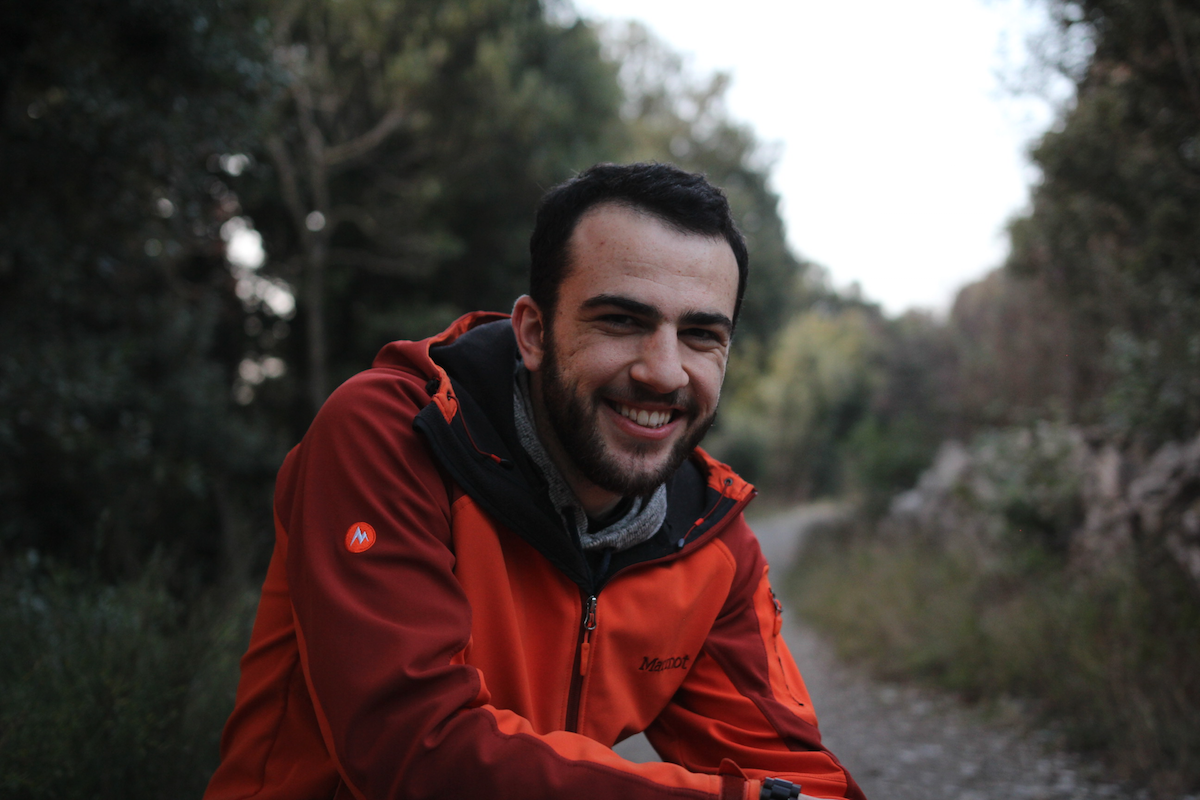
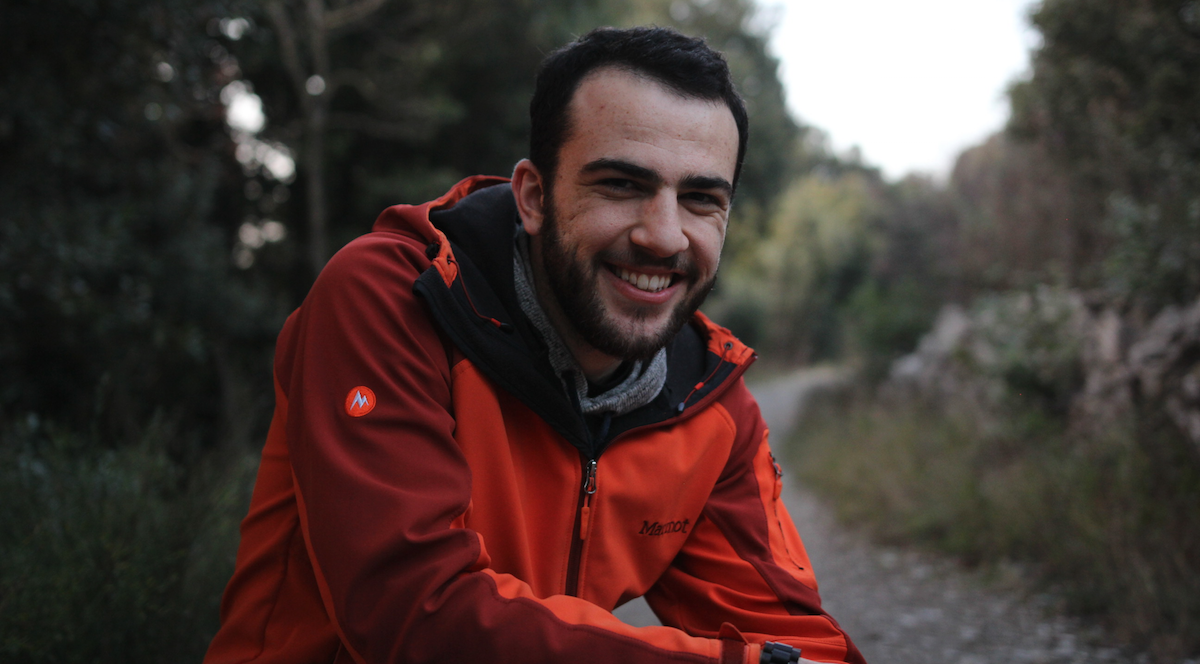
Update copy, fix compression, switch to grid

diff --git a/src/css/andrew.less b/src/css/andrew.less
@@ -39,42 +39,106 @@ body {
   color: #FFF;
 }
 
-.content {
-  max-width: 968px;
-  margin: 0 auto;
-}
-
-#header-img-wrapper {
-  background: @darker-green;
-  margin: 0;
-  padding: 0;
-  margin-top: -12%;
-  max-height: 85%;
-  overflow: hidden;
+.grid-wrapper {
+  margin: auto;
+  display: grid;
+  grid-template-columns: repeat(8, 1fr);
+  grid-template-rows: auto auto auto;
+  grid-column-gap: 1em;
 }
 
 #header-img {
-  vertical-align:bottom;
-  opacity: 1;
+  grid-column-start: 1;
+  grid-column-end: -1;
+  grid-row: 1;
+  z-index: 10;
+  margin: 0;
+
+  overflow: hidden;
+  max-height: 70vmin;
+}
+
+#header-img img {
+  /* Photo Credit: Serena Planera */
+  max-width: 100%;
   min-width: 100%;
 
+  opacity: 1;
   -webkit-transition: opacity .3s;
   -moz-transition:    opacity .3s;
   -o-transition:      opacity .3s;
   transition:         opacity .3s;
 }
-#header-img[data-src] {
+
+#header-img img[data-src] {
   opacity: 0;
+}
+
+#header-title {
+  grid-column: 1/span 8;
+  grid-row: 1;
+  text-align: center;
+  z-index: 50;
+  color: rgba(255, 255, 255, 0.8);
+  // margin: auto;
+  align-self: end;
+}
+
+#header-title .title {
+  margin-bottom: 0;
+  font-size: 3.2em;
+}
+
+#header-subtitle {
+  grid-column: 1/span 8;
+  grid-row: 2;
+  text-align: center;
+  z-index: 50;
+  color: rgba(255, 255, 255, 0.8);
+  align-self: start;
+}
+
+#header-subtitle .tagline {
+  margin-top: 0;
+  margin-bottom: 0;
+}
+
+#header-subtitle #love {
+  margin-top: 0;
+  margin-bottom: 0;
+
+  color: #e85b0c;
+  font-size: 2em;
+  // margin-top: -0.75em;
+
+  background: linear-gradient(330deg, #e85b0c 0%, #E8A80C 100%);
+  -webkit-text-fill-color: transparent;
+  -webkit-background-clip: text;
+}
+
+.content {
+  grid-column: 2 / span 6;
+  grid-row: 3;
+}
+
+.footer {
+  grid-column-start: 1;
+  grid-column-end: -1;
+  grid-row: 4;
+  background-color: @darker-green;
+  align-self: end;
 }
 
 h1,h2,h3,h4,h5,h6 {
   font-family: 'LoveloBlack', sans-serif;
   text-transform: uppercase;
 }
+
 p {
 	font-weight: 300;
   text-align: left;
 }
+
 .content p {
   margin: 1em 1.5em;
 }
@@ -96,39 +160,10 @@ a:active {
   color:#FFF;
 }
 
-#header-img {
-  /* Photo Credit: Serena Planera */
-  width: 100vw;
-  position: relative;
-}
-
-#wrapper {
-  position: relative;
-  top: -7em;
-}
-
-.subtitle {
-  margin-top: -2em;
-}
-
-h1.title {
-  font-size: 3.5em;
-}
-
-h2.emph {
-  color: #e85b0c;
-  font-size: 2em;
-  margin-top: -0.75em;
-
-  background: linear-gradient(330deg, #e85b0c 0%, #E8A80C 100%);
-  -webkit-text-fill-color: transparent;
-  -webkit-background-clip: text;
-}
-
 
 /******************** Social Icons ********************/
 #social-icons {
-  margin: 2em 1em 1em 1em;
+  margin: 2em 1em 2em 1em;
   padding: 0;
 }
 #social-icons li {
@@ -153,48 +188,48 @@ h2.emph {
 
 
 /** responsive **/
-@media screen and (max-width: 800px) {
-  h1.title {
-    font-size: 2em;
-  }
-  h2.tagline {
-    font-size: 1em;
-  }
-  h2.emph {
-    font-size: 1.25em;
-  }
-  .content {
-    margin: 0 0.5em;
-  }
-  #wrapper {
-    top: -4em;
-  }
-  .subtitle {
-    margin-top: -0.8em;
-  }
-}
-@media screen and (max-width: 500px) {
-  h1.title {
-    font-size: 1.7em;
-  }
-  h2.tagline {
-    font-size: 0.9em;
-  }
-  h2.emph {
-    font-size: 1.1em;
-  }
-  .content {
-    margin: 0 0.5em;
-  }
-  #wrapper {
-    top: -3.4em;
-  }
-  .subtitle {
-    margin-top: -0.8em;
-  }
-}
-
-/* min-aspect-ratio: 1/1? */
-@media (orientation: landscape) {
-  /* scale header picture */
-}
+// @media screen and (max-width: 800px) {
+//   h1.title {
+//     font-size: 2em;
+//   }
+//   h2.tagline {
+//     font-size: 1em;
+//   }
+//   h2.emph {
+//     font-size: 1.25em;
+//   }
+//   .content {
+//     margin: 0 0.5em;
+//   }
+//   #wrapper {
+//     top: -4em;
+//   }
+//   .subtitle {
+//     margin-top: -0.8em;
+//   }
+// }
+// @media screen and (max-width: 500px) {
+//   h1.title {
+//     font-size: 1.7em;
+//   }
+//   h2.tagline {
+//     font-size: 0.9em;
+//   }
+//   h2.emph {
+//     font-size: 1.1em;
+//   }
+//   .content {
+//     margin: 0 0.5em;
+//   }
+//   #wrapper {
+//     top: -3.4em;
+//   }
+//   .subtitle {
+//     margin-top: -0.8em;
+//   }
+// }
+//
+// /* min-aspect-ratio: 1/1? */
+// @media (orientation: landscape) {
+//   /* scale header picture */
+// }

diff --git a/src/index.html b/src/index.html
@@ -12,27 +12,29 @@
 	<link href="css/andrew.css" rel="stylesheet" type="text/css" />
 </head>
 <body>
-	<div id="header-img-wrapper" class="fluid-ratio-resize">
-		<img id="header-img" alt="Picture of me!" data-src="img/passegiata.png" />
-	</div>
+	<div class="grid-wrapper">
+		<div id="header-img">
+			<img alt="Picture of me!" data-src="img/passegiata.png" />
+		</div>
 
-	<div id="wrapper">
 		<div id="header-title">
 			<h1 class="title">Andrew Hollenbach</h1>
+		</div>
 
-			<div class="subtitle">
-				<h2 class="tagline">Computer science student and lover of</h2>
-				<h2 id="love" class="emph">computer vision</h2>
-			</div>
+		<div id="header-subtitle">
+			<h2 class="tagline">Computer science student and lover of</h2>
+			<h2 id="love">computer vision</h2>
 		</div>
 
 		<div class="content">
-			<p>Currently working on my Bachelor’s and Master’s in computer science at <a href="https://www.rit.edu" target="_blank">RIT</a> , singing with the <a href="http://www.brickcitysingers.org" target="_blank">Brick City Singers</a>, and playing quidditch with the <a href="https://www.facebook.com/RITQuidditch/"  target="_blank">RIT Dark Marks</a>.</p>
+			<p>Currently working on my Bachelor’s and Master’s in computer science at <a href="https://www.rit.edu" target="_blank">RIT</a> and building platforms to empower people to make good financial decisions at <a href="https://www.nerdwallet.com/careers" target="_blank">NerdWallet</a>.</p>
 
 			<p>I’m a contributor to <a href="https://www.github.com/linkedin/gobblin">Gobblin</a> and quadrotor enthusiast, amongst many other things.</p>
+		</div>
 
+		<div class="footer">
 			<ul id="social-icons">
-				<li><a href="mailto:andrew.hollenbach@rit.edu" target="_blank">          <img title="email" src="res/social-icons/email.svg" /></a></li>
+				<li><a href="mailto:hollenbach.andrew@gmail.com" target="_blank">        <img title="email" src="res/social-icons/email.svg" /></a></li>
 				<li><a href="http://www.linkedin.com/in/ahollenbach" target="_blank">    <img title="LinkedIn" src="res/social-icons/linkedin.svg" /></a></li>
 				<li><a href="http://www.github.com/ahollenbach" target="_blank">         <img title="GitHub" src="res/social-icons/github.svg" /></a></li>
 				<li><a href="http://www.twitter.com/cellphonetower" target="_blank">     <img title="Twitter" src="res/social-icons/twitter.svg" /></a></li>

diff --git a/GruntFile.js b/GruntFile.js
@@ -13,6 +13,16 @@ module.exports = function(grunt) {
       options: {
         banner: '/* <%= pkg.name %> <%= grunt.template.today("yyyy-mm-dd") %> */\n'
       },
+      dev: {
+        options: {
+          // compress: false,
+          beautify: true,
+          mangle: false
+        },
+        files: {
+          'dist/js/andrew.min.js': 'src/**/*.js'
+        }
+      },
       build: {
         files: {
           'dist/js/andrew.min.js': 'src/**/*.js'
@@ -57,7 +67,7 @@ module.exports = function(grunt) {
       },
       scripts: {
         files: 'src/**/*.js',
-        tasks: ['jshint', 'uglify']
+        tasks: ['jshint', 'uglify:dev']
       }
     },
 
@@ -82,6 +92,6 @@ module.exports = function(grunt) {
   grunt.loadNpmTasks('grunt-contrib-imagemin');
 
   grunt.registerTask('default', ['jshint', 'uglify', 'less:prod', 'imagemin', 'copy']);
-  grunt.registerTask('dev', ['jshint', 'uglify', 'less:dev', 'copy']);
+  grunt.registerTask('dev', ['jshint', 'uglify:dev', 'less:dev', 'copy']);
   grunt.registerTask('prod', ['jshint', 'uglify', 'less:prod', 'imagemin', 'copy']);
 };
